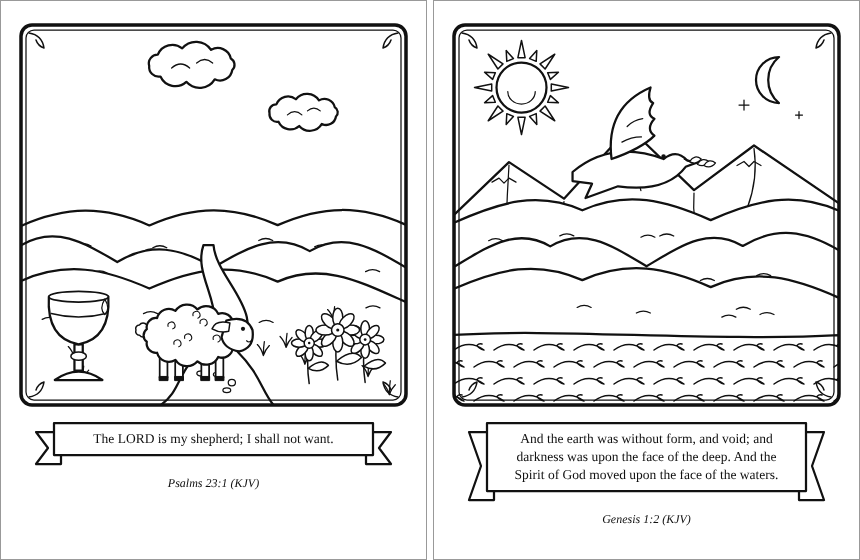
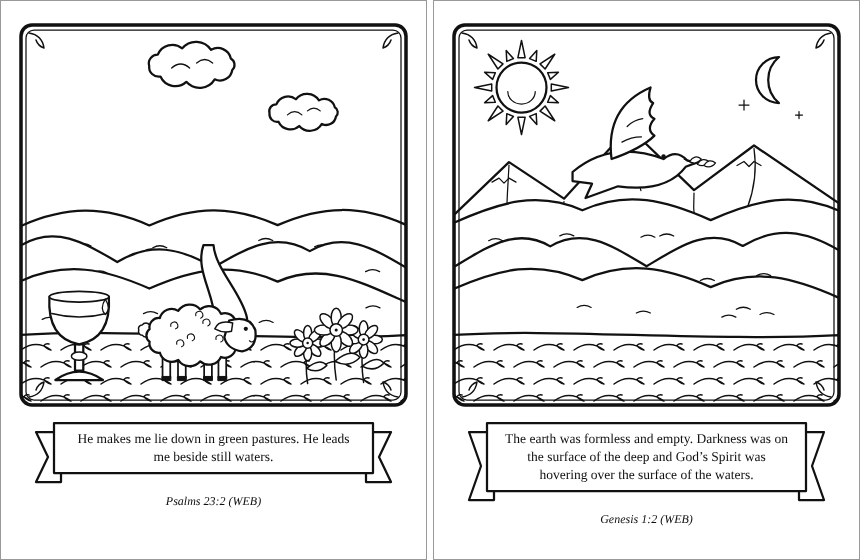
Use the Orthodox Bible from SuperBook: same 79 books, order and names, World English Bible text

diff --git a/coe/books.py b/coe/books.py
@@ -1,36 +1,71 @@
-"""The 66 books of the Protestant Bible with their chapter counts, so a book and chapter can be
-checked before any text is fetched."""
+"""The books of the Bible as SuperBook has them: the Eastern Orthodox canon in Orthodox order (the Old
+Testament following the Septuagint, with Tobit, Judith, the Maccabees, Wisdom, Sirach, Baruch and the
+other books Protestant Bibles leave out), then the 27 books of the New Testament.
+
+SuperBook (https://github.com/TheoYanvno/SuperBook) is the reference for every Bible project here, so this
+list is a copy of `BIBLE` in SuperBook's src/books.js: [id the text API understands, chapters, label readers
+see]. tests/test_superbook.py checks the two still match when SuperBook is checked out next to this repo.
+"""
 from __future__ import annotations
 
-BOOKS: dict[str, int] = {
-    "Genesis": 50, "Exodus": 40, "Leviticus": 27, "Numbers": 36, "Deuteronomy": 34, "Joshua": 24, "Judges": 21,
-    "Ruth": 4, "1 Samuel": 31, "2 Samuel": 24, "1 Kings": 22, "2 Kings": 25, "1 Chronicles": 29, "2 Chronicles": 36,
-    "Ezra": 10, "Nehemiah": 13, "Esther": 10, "Job": 42, "Psalms": 150, "Proverbs": 31, "Ecclesiastes": 12,
-    "Song of Solomon": 8, "Isaiah": 66, "Jeremiah": 52, "Lamentations": 5, "Ezekiel": 48, "Daniel": 12, "Hosea": 14,
-    "Joel": 3, "Amos": 9, "Obadiah": 1, "Jonah": 4, "Micah": 7, "Nahum": 3, "Habakkuk": 3, "Zephaniah": 3,
-    "Haggai": 2, "Zechariah": 14, "Malachi": 4,
-    "Matthew": 28, "Mark": 16, "Luke": 24, "John": 21, "Acts": 28, "Romans": 16, "1 Corinthians": 16,
-    "2 Corinthians": 13, "Galatians": 6, "Ephesians": 6, "Philippians": 4, "Colossians": 4, "1 Thessalonians": 5,
-    "2 Thessalonians": 3, "1 Timothy": 6, "2 Timothy": 4, "Titus": 3, "Philemon": 1, "Hebrews": 13, "James": 5,
-    "1 Peter": 5, "2 Peter": 3, "1 John": 5, "2 John": 1, "3 John": 1, "Jude": 1, "Revelation": 22,
-}
+SUPERBOOK = "https://theoyanvno.github.io/SuperBook/"
 
-ALIASES = {"psalm": "Psalms", "song of songs": "Song of Solomon", "revelations": "Revelation"}
+BIBLE: list[tuple[str, int, str]] = [(b[0], b[1], b[2] if len(b) > 2 else b[0]) for b in [
+    ("Genesis", 50), ("Exodus", 40), ("Leviticus", 27), ("Numbers", 36), ("Deuteronomy", 34), ("Joshua", 24), ("Judges", 21),
+    ("Ruth", 4), ("1 Samuel", 31, "1 Kingdoms (1 Samuel)"), ("2 Samuel", 24, "2 Kingdoms (2 Samuel)"),
+    ("1 Kings", 22, "3 Kingdoms (1 Kings)"), ("2 Kings", 25, "4 Kingdoms (2 Kings)"),
+    ("1 Chronicles", 29), ("2 Chronicles", 36), ("Prayer of Manasses", 1, "Prayer of Manasseh"),
+    ("1 Esdras", 9), ("Ezra", 10, "2 Esdras (Ezra)"), ("Nehemiah", 13), ("Tobit", 14), ("Judith", 16), ("Esther", 10),
+    ("1 Maccabees", 16), ("2 Maccabees", 15), ("3 Maccabees", 7),
+    ("Psalms", 150), ("Job", 42), ("Proverbs", 31), ("Ecclesiastes", 12), ("Song of Solomon", 8, "Song of Songs"),
+    ("Wisdom", 19, "Wisdom of Solomon"), ("Sirach", 51),
+    ("Hosea", 14), ("Amos", 9), ("Micah", 7), ("Joel", 3), ("Obadiah", 1), ("Jonah", 4), ("Nahum", 3), ("Habakkuk", 3),
+    ("Zephaniah", 3), ("Haggai", 2), ("Zechariah", 14), ("Malachi", 4),
+    ("Isaiah", 66), ("Jeremiah", 52), ("Baruch", 5), ("Lamentations", 5), ("Ezekiel", 48), ("Daniel", 12),
+    ("sus", 1, "Susanna"), ("Bel and the Dragon", 1), ("4 Maccabees", 18, "4 Maccabees (appendix)"),
+    ("Matthew", 28), ("Mark", 16), ("Luke", 24), ("John", 21), ("Acts", 28), ("Romans", 16), ("1 Corinthians", 16),
+    ("2 Corinthians", 13), ("Galatians", 6), ("Ephesians", 6), ("Philippians", 4), ("Colossians", 4), ("1 Thessalonians", 5),
+    ("2 Thessalonians", 3), ("1 Timothy", 6), ("2 Timothy", 4), ("Titus", 3), ("Philemon", 1), ("Hebrews", 13), ("James", 5),
+    ("1 Peter", 5), ("2 Peter", 3), ("1 John", 5), ("2 John", 1), ("3 John", 1), ("Jude", 1), ("Revelation", 22),
+]]
+
+BOOKS: dict[str, int] = {label: chapters for _, chapters, label in BIBLE}     # label -> chapters, in order
+API_ID: dict[str, str] = {label: api for api, _, label in BIBLE}
+
+ALIASES = {"psalm": "Psalms", "revelations": "Revelation", "song of solomon": "Song of Songs", "wisdom": "Wisdom of Solomon",
+           "ecclesiasticus": "Sirach", "prayer of manasses": "Prayer of Manasseh", "bel": "Bel and the Dragon",
+           "4 maccabees": "4 Maccabees (appendix)"}
 
 
 class BadReference(ValueError):
     pass
 
 
+def _keys() -> dict[str, str]:
+    """Every name a reader might type for a book: its label, its API name and the names in brackets
+    ("1 Samuel", "1 Kingdoms", "Ezra", "2 Esdras")."""
+    keys = {}
+    for api, _, label in BIBLE:
+        keys[label.lower()] = label
+        keys[api.lower()] = label
+        if "(" in label:
+            outer, inner = label.split(" (", 1)
+            keys[outer.lower()] = label
+            if inner.rstrip(")") != "appendix":
+                keys[inner.rstrip(")").lower()] = label
+    keys.update({k: v for k, v in ALIASES.items()})
+    return keys
+
+
+KEYS = _keys()
+
+
 def find_book(name: str) -> str:
-    """The book's standard name, matched without caring about case or extra spaces ("1 john", "PSALM")."""
+    """The book's label as SuperBook shows it, matched without caring about case or extra spaces."""
     key = " ".join(str(name).split()).lower()
-    if key in ALIASES:
-        return ALIASES[key]
-    for book in BOOKS:
-        if book.lower() == key:
-            return book
-    raise BadReference(f"There's no book called {name!r}. Try a name like Genesis, Psalms or 1 John.")
+    if key in KEYS:
+        return KEYS[key]
+    raise BadReference(f"There's no book called {name!r}. Try a name like Genesis, Tobit, Psalms or 1 John.")
 
 
 def check(book: str, chapter) -> tuple[str, int]:

diff --git a/coe/text.py b/coe/text.py
@@ -1,7 +1,8 @@
-"""Chapter text from the King James Version, which is in the public domain in the United States.
+"""Chapter text from the World English Bible, a public-domain translation, from the same place SuperBook
+reads it: bible-api.com, which also has the Orthodox books Protestant Bibles leave out.
 
-Text comes from bible-api.com (it serves public-domain translations) and is cached on disk, so each
-chapter is fetched only once. A few chapters ship with Colors of Eden so it works offline and in tests.
+Each chapter is fetched once and cached on disk. A few chapters ship with Colors of Eden so it works
+offline and in tests.
 """
 from __future__ import annotations
 
@@ -11,9 +12,9 @@ import urllib.request
 from dataclasses import dataclass
 from pathlib import Path
 
-from .books import check
+from .books import API_ID, check
 
-API = "https://bible-api.com/{ref}?translation=kjv"
+API = "https://bible-api.com/{ref}?translation=web"
 
 
 @dataclass(frozen=True)
@@ -21,7 +22,7 @@ class Chapter:
     book: str
     number: int
     verses: list[tuple[int, str]]
-    translation: str = "King James Version (public domain)"
+    translation: str = "World English Bible (public domain)"
 
     @property
     def reference(self) -> str:
@@ -30,19 +31,19 @@ class Chapter:
 
 BUNDLED: dict[str, list[str]] = {
     "Genesis 1": [
-        "In the beginning God created the heaven and the earth.",
-        "And the earth was without form, and void; and darkness was upon the face of the deep. And the Spirit of God moved upon the face of the waters.",
-        "And God said, Let there be light: and there was light.",
-        "And God saw the light, that it was good: and God divided the light from the darkness.",
-        "And God called the light Day, and the darkness he called Night. And the evening and the morning were the first day.",
+        "In the beginning, God created the heavens and the earth.",
+        "The earth was formless and empty. Darkness was on the surface of the deep and God\u2019s Spirit was hovering over the surface of the waters.",
+        "God said, \u201cLet there be light,\u201d and there was light.",
+        "God saw the light, and saw that it was good. God divided the light from the darkness.",
+        "God called the light \u201cday\u201d, and the darkness he called \u201cnight\u201d. There was evening and there was morning, the first day.",
     ],
     "Psalms 23": [
-        "The LORD is my shepherd; I shall not want.",
-        "He maketh me to lie down in green pastures: he leadeth me beside the still waters.",
-        "He restoreth my soul: he leadeth me in the paths of righteousness for his name's sake.",
-        "Yea, though I walk through the valley of the shadow of death, I will fear no evil: for thou art with me; thy rod and thy staff they comfort me.",
-        "Thou preparest a table before me in the presence of mine enemies: thou anointest my head with oil; my cup runneth over.",
-        "Surely goodness and mercy shall follow me all the days of my life: and I will dwell in the house of the LORD for ever.",
+        "Yahweh is my shepherd: I shall lack nothing.",
+        "He makes me lie down in green pastures. He leads me beside still waters.",
+        "He restores my soul. He guides me in the paths of righteousness for his name\u2019s sake.",
+        "Even though I walk through the valley of the shadow of death, I will fear no evil, for you are with me. Your rod and your staff, they comfort me.",
+        "You prepare a table before me in the presence of my enemies. You anoint my head with oil. My cup runs over.",
+        "Surely goodness and loving kindness shall follow me all the days of my life, and I will dwell in Yahweh\u2019s house forever.",
     ],
 }
 PARTIAL = {"Genesis 1"}       # bundled copies that hold only the opening verses
@@ -58,13 +59,14 @@ def load_chapter(book: str, chapter, cache: Path | None = Path(".coe-cache"), ge
                  allow_partial: bool = True) -> Chapter:
     name, n = check(book, chapter)
     ref = f"{name} {n}"
+    api_ref = f"{API_ID[name]} {n}"
     if cache is not None:
-        cached = cache / f"{ref.replace(' ', '_')}.json"
+        cached = cache / f"{api_ref.replace(' ', '_')}.json"
         if cached.is_file():
             data = json.loads(cached.read_text(encoding="utf-8"))
             return Chapter(name, n, [(v, t) for v, t in data["verses"]])
     try:
-        body = json.loads(get(API.format(ref=urllib.parse.quote(ref.lower()))))
+        body = json.loads(get(API.format(ref=urllib.parse.quote(api_ref.lower()))))
         verses = [(int(v["verse"]), " ".join(v["text"].split())) for v in body["verses"] if int(v["chapter"]) == n]
         if not verses:
             raise ValueError("no verses in the answer")

diff --git a/tests/test_text_and_scenes.py b/tests/test_text_and_scenes.py
@@ -13,9 +13,16 @@ def offline(url):
 
 
 class Books(unittest.TestCase):
-    def test_all_66_books_and_their_chapters(self):
-        self.assertEqual(len(BOOKS), 66)
-        self.assertEqual(sum(BOOKS.values()), 1189)
+    def test_the_orthodox_canon_as_superbook_has_it(self):
+        self.assertEqual(len(BOOKS), 79)                # 52 Old Testament books, then the 27 of the New
+        names = list(BOOKS)
+        self.assertLess(names.index("Tobit"), names.index("Psalms"))
+        self.assertEqual(find_book("1 samuel"), "1 Kingdoms (1 Samuel)")
+        self.assertEqual(find_book("3 Kingdoms"), "3 Kingdoms (1 Kings)")
+        self.assertEqual(find_book("Wisdom"), "Wisdom of Solomon")
+        self.assertEqual(find_book("susanna"), "Susanna")
+        self.assertEqual(check("Sirach", 51), ("Sirach", 51))
+        self.assertEqual(sum(BOOKS.values()), 1362)
         self.assertEqual(find_book("  1   john "), "1 John")
         self.assertEqual(find_book("Psalm"), "Psalms")
         self.assertEqual(check("genesis", "50"), ("Genesis", 50))
@@ -35,7 +42,7 @@ class Text(unittest.TestCase):
             ch = load_chapter("jonah", 1, cache=Path(d), get=fake)
             again = load_chapter("Jonah", 1, cache=Path(d), get=offline)
         self.assertEqual(len(calls), 1)
-        self.assertIn("translation=kjv", calls[0])
+        self.assertIn("translation=web", calls[0])
         self.assertEqual(ch.verses[0], (1, "Jonah text"))      # spaces and line breaks tidied
         self.assertEqual(again, ch)
         self.assertEqual(ch.reference, "Jonah 1")
@@ -43,7 +50,7 @@ class Text(unittest.TestCase):
     def test_bundled_chapters_work_offline_and_others_explain_the_problem(self):
         ch = load_chapter("Psalms", 23, cache=None, get=offline)
         self.assertEqual(len(ch.verses), 6)
-        self.assertTrue(ch.verses[0][1].startswith("The LORD is my shepherd"))
+        self.assertTrue(ch.verses[0][1].startswith("Yahweh is my shepherd"))
         with self.assertRaisesRegex(ConnectionError, "internet"):
             load_chapter("Ruth", 1, cache=None, get=offline)
 

diff --git a/coe/art.py b/coe/art.py
@@ -381,7 +381,7 @@ def draw_page(plan: Plan, seed: str | None = None) -> str:
         parts.append(f'<text x="{W / 2}" y="{top + 40 + k * row}" text-anchor="middle" font-family="Georgia, serif" '
                      f'font-size="27" fill="{INK}">{escape(text_line)}</text>')
     parts.append(f'<text x="{W / 2}" y="{top + band + 64}" text-anchor="middle" font-family="Georgia, serif" font-size="24" '
-                 f'font-style="italic" fill="{INK}">{escape(plan.reference)}:{number} (KJV)</text>')
+                 f'font-style="italic" fill="{INK}">{escape(plan.reference)}:{number} (WEB)</text>')
     return (f'<svg xmlns="http://www.w3.org/2000/svg" width="8.5in" height="11in" viewBox="0 0 {W} {H}" '
             f'role="img" aria-label="Coloring page for {escape(plan.reference)}">'
             f'<title>Colors of Eden: {escape(plan.reference)}</title><rect width="{W}" height="{H}" fill="#fff"/>'

diff --git a/tests/test_superbook.py b/tests/test_superbook.py
@@ -1,0 +1,18 @@
+"""SuperBook is the reference for the Bible here. When SuperBook is checked out next to this repo, check
+that our list of books still matches its BIBLE list exactly."""
+import ast
+import pathlib
+import re
+import unittest
+
+from coe.books import BIBLE
+
+SRC = pathlib.Path(__file__).resolve().parents[2] / "superbook" / "src" / "books.js"
+
+
+@unittest.skipUnless(SRC.exists(), "SuperBook is not checked out next to Colors of Eden")
+class MatchesSuperBook(unittest.TestCase):
+    def test_same_books_same_order_same_labels(self):
+        body = re.search(r"export const BIBLE = \[(.*?)\n\];", SRC.read_text(), re.S).group(1)
+        theirs = [(b[0], b[1], b[2] if len(b) > 2 else b[0]) for b in ast.literal_eval("[" + body + "]")]
+        self.assertEqual(BIBLE, theirs)

diff --git a/tests/test_art.py b/tests/test_art.py
@@ -19,7 +19,7 @@ class Art(unittest.TestCase):
         doc = xml.dom.minidom.parseString(svg)
         root = doc.documentElement
         self.assertEqual((root.getAttribute("width"), root.getAttribute("height")), ("8.5in", "11in"))
-        self.assertIn("Psalms 23:1 (KJV)", svg)
+        self.assertIn("Psalms 23:1 (WEB)", svg)
 
     def test_only_outlines_to_color_in(self):
         svg = draw_page(plan(bg=list(BACKGROUND_ART), fg=list(FOREGROUND_ART)))

diff --git a/README.md b/README.md
@@ -1,6 +1,6 @@
 # 🎨 Colors of Eden
 
-Printable coloring pages from any Bible chapter. Pick a book and a chapter, and Colors of Eden reads the chapter, chooses what to draw from its words (sheep and a quiet stream for Psalm 23, the sun, moon and waters for Genesis 1), and draws an original line-art page with a verse to print and color.
+Printable coloring pages from any chapter of the Orthodox Bible. Pick a book and a chapter, and Colors of Eden reads the chapter, chooses what to draw from its words (sheep and a quiet stream for Psalm 23, the sun, moon and waters for Genesis 1), and draws an original line-art page with a verse to print and color.
 
 **Status:** in progress. Choosing what to draw and drawing the pages work; the web page and printable PDFs are next.
 
@@ -14,15 +14,16 @@ python -m coe plan Psalms 23     # shows what the page will show
 ```
 
 ```
-Psalms 23 (King James Version (public domain))
-Background: path
-In front:   cup, sheep, flowers, heart
-Verse 5: Thou preparest a table before me in the presence of mine enemies: ...
+Psalms 23 (World English Bible (public domain))
+Background: path, waves
+In front:   cup, sheep, flowers
+Verse 2: He makes me lie down in green pastures. He leads me beside still waters.
 ```
 
 ## Where the words and pictures come from
 
-- **Text:** the King James Version, which is in the public domain in the United States, from [bible-api.com](https://bible-api.com/). Each chapter is fetched once and cached in `.coe-cache/`. Genesis 1 and Psalm 23 are included so it works offline.
+- **Books:** the Eastern Orthodox Bible, in the same books, order and names as [SuperBook](https://theoyanvno.github.io/SuperBook/), which is the reference for this project: 52 Old Testament books in Orthodox order (with Tobit, Judith, the Maccabees, Wisdom of Solomon, Sirach, Baruch and the others) and the 27 of the New Testament. Any common name works, so `1 Samuel` and `1 Kingdoms` find the same book. `tests/test_superbook.py` checks the list still matches SuperBook's.
+- **Text:** the World English Bible, a public-domain translation, from [bible-api.com](https://bible-api.com/), the same source SuperBook reads. Each chapter is fetched once and cached in `.coe-cache/`. Genesis 1 and Psalm 23 are included so it works offline. Like SuperBook, it can't offer the Letter of Jeremiah, Psalm 151 or the Greek additions to Esther and Daniel, which that free source doesn't have.
 - **Pictures:** every drawing is original, made in code (`coe/art.py`) in a storybook style: a framed scene with layered hills, a sun, moon, stars, clouds, mountains, waves and a winding path behind; trees, flowers, sheep, a dove, fish, a boat, a crown, a lamp, a cup and a heart in front, with texture lines like bark, wool and ripples, and the verse on a ribbon. No clip art or traced images. Every shape is a closed outline, so each area can be colored in.
 
 ## Run the tests
